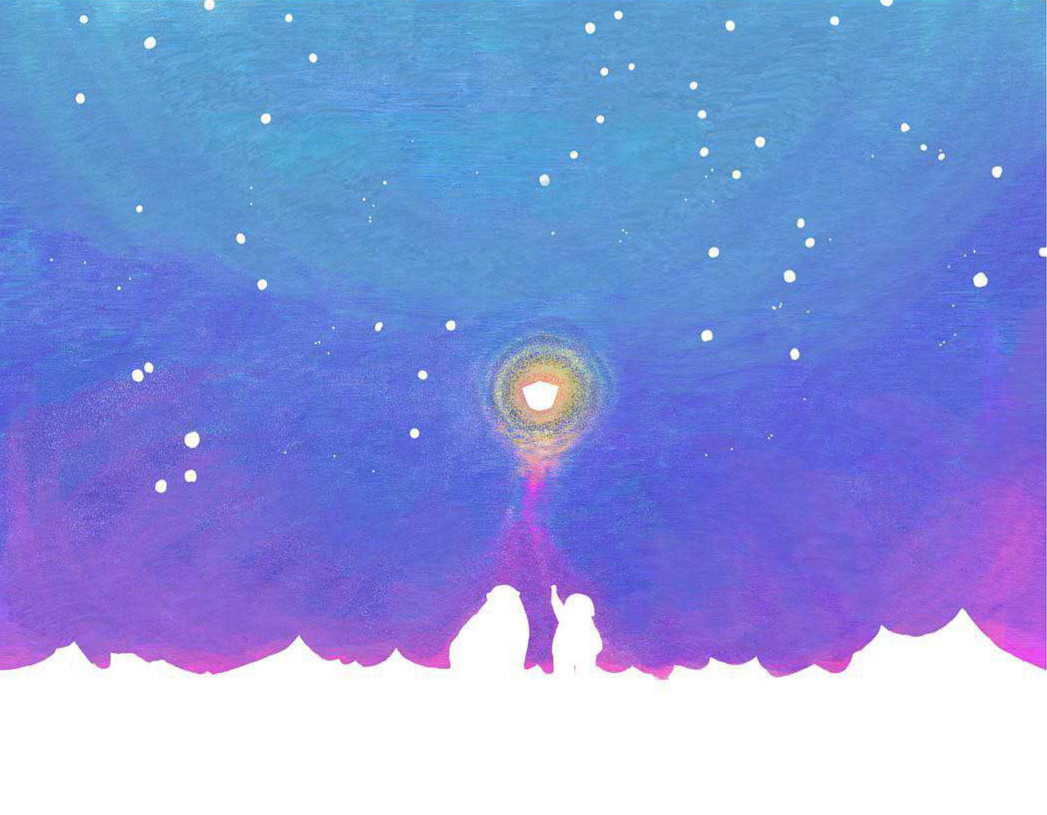
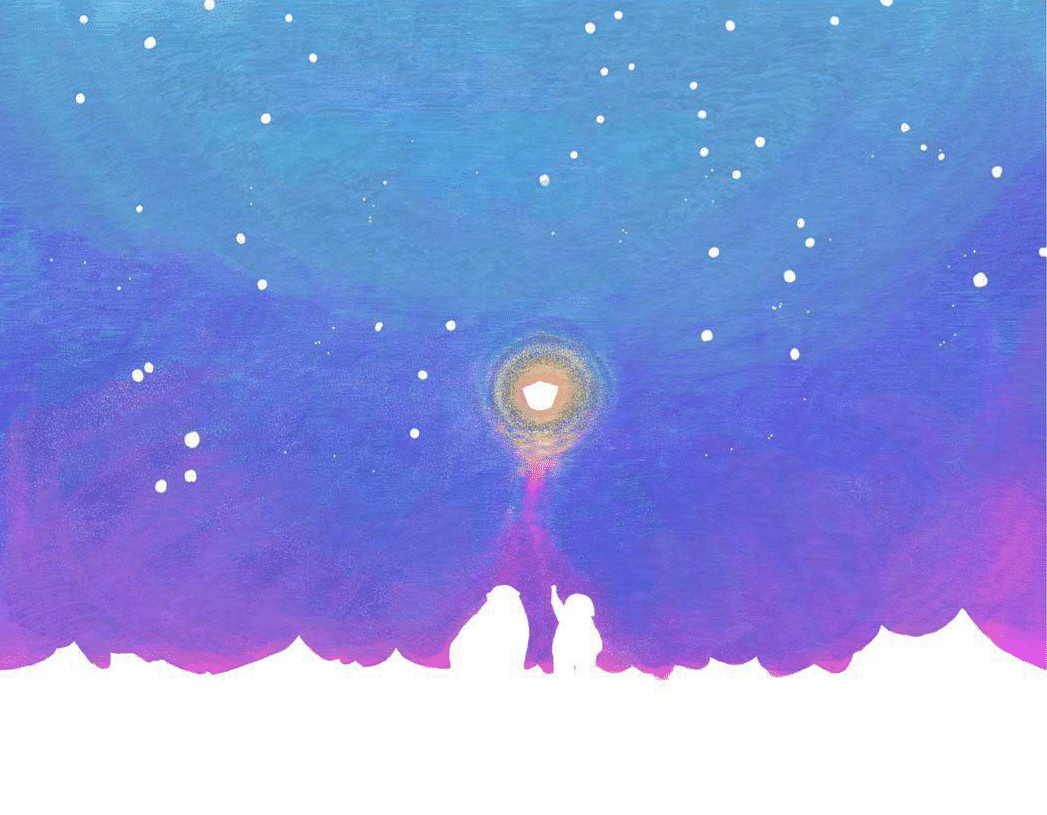
@feature 图片压缩；资源重命名；

Changed region(s): [[0.4585, 0.4294, 0.5807, 0.5828], [0.978, 0.7669, 1.0, 0.7975], [0.5807, 0.7975, 0.6113, 0.8282]]

diff --git a/_posts/2020-04-11-同城基友招新.md b/_posts/2020-04-11-同城基友招新.md
@@ -29,7 +29,7 @@ tags:
 #### 加入方式
 添加微信：1527671969(或扫描二维码)
 
-![avatar](/img/加二维码.jpeg)
+![avatar](/img/qcode.jpeg)
 
 >（验证信息格式：所在城市+性取向+年龄+加入目的，示例：广州+同志+29+认识责任感强的同志；北京+同志+31+希望加入不会动不动撕起来的小组；上海+同志+36岁+找可以携手一生的爱人；深圳+同志+25岁+认识有共同兴趣爱好的同志作为好朋友）
 

diff --git a/_posts/2020-04-06-硕博基友小组招新.md b/_posts/2020-04-06-硕博基友小组招新.md
@@ -65,7 +65,7 @@ tags:
 #### 加小组方式
 添加微信：1527671969（或识别扫描二维码）
 
-![avatar](/img/加二维码.jpeg)
+![avatar](/img/qcode.jpeg)
 
 >（验证信息格式：城市+性取向+年龄+专业学历+加入目的，比如：广州+同志+29+临床医学硕士+想认识一些高素质的好朋友；北京+同志+31+人文地理博士生+找有共同兴趣的好基友，顺便交流学术问题。）
 
